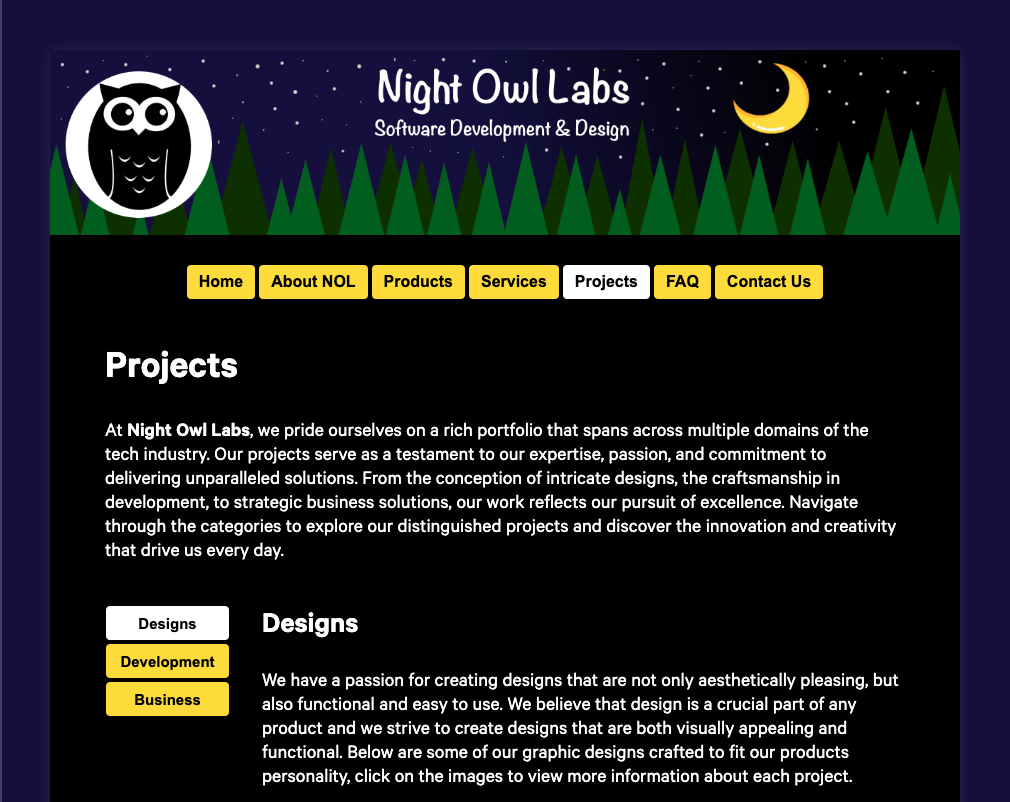
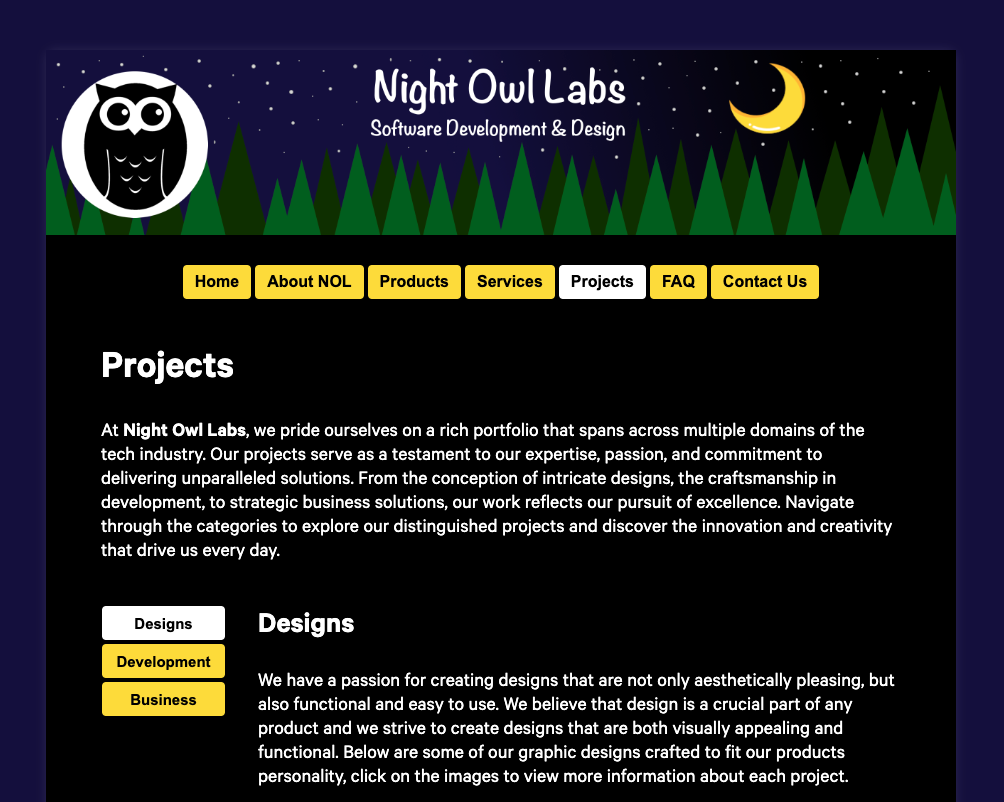
Update demo images and README

diff --git a/README.md b/README.md
@@ -30,7 +30,7 @@ A dynamic and versatile static business website, expertly crafted using Gatsby f
         <img src="./docs/images/demo_1.png" style="width: 60%;"/>
     </a>
     <br>
-    <i>Fully customizable business website</i>
+    <i>Fully customizable business website.</i>
 </div>
 <br>
 <div align="center">
@@ -38,7 +38,7 @@ A dynamic and versatile static business website, expertly crafted using Gatsby f
         <img src="./docs/images/demo_2.png" style="width: 60%;"/>
     </a>
     <br>
-    <i>Optionally, you can also use it as a product or app landing page</i>
+    <i>Optionally, you can also use it as a product or app landing page.</i>
 </div>
 <br>
 <div align="center">
@@ -46,7 +46,15 @@ A dynamic and versatile static business website, expertly crafted using Gatsby f
         <img src="./docs/images/demo_3.png" style="width: 60%;"/>
     </a>
     <br>
-    <i>Easily change the color scheme to match your brand</i>
+    <i>Easily change the color scheme to match your brand.</i>
+</div>
+<br>
+<div align="center">
+    <a href="https://prgoptimized.com" target="_blank">
+        <img src="./docs/images/demo_4.png" style="width: 60%;"/>
+    </a>
+    <br>
+    <i>Create custom website pages to showcase your company or product.</i>
 </div>
 
 ---------------
